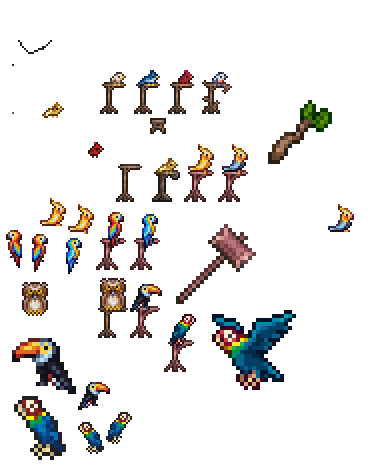
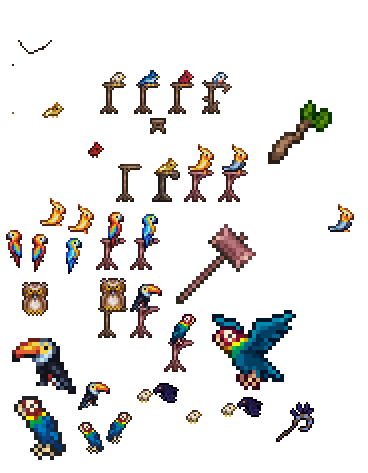
Made all perches side-anchoring; Added raven perch;

diff --git a/Content/Tiles/Furniture/AnimalHomes/RavenPerch.cs b/Content/Tiles/Furniture/AnimalHomes/RavenPerch.cs
@@ -8,7 +8,7 @@ using Terraria.ObjectData;
 
 namespace Funrniture.Content.Tiles.Furniture.AnimalHomes
 {
-    public class GrayCockatielPerch : ModTile
+    public class RavenPerch : ModTile
     {
         public override void SetStaticDefaults()
         {
@@ -16,10 +16,10 @@ namespace Funrniture.Content.Tiles.Furniture.AnimalHomes
             Main.tileNoAttach[Type] = true;
 
             TileObjectData.newTile.CopyFrom(TileObjectData.Style2xX);
-            TileObjectData.newTile.Height = 4;
+            TileObjectData.newTile.Height = 3;
             TileObjectData.newTile.Origin = new Point16(0, 2);
             TileObjectData.newTile.Direction = TileObjectDirection.PlaceLeft;
-            TileObjectData.newTile.CoordinateHeights = [16, 16, 16, 18];
+            TileObjectData.newTile.CoordinateHeights = [16, 16, 18];
             TileObjectData.newTile.CoordinateWidth = 16;
             TileObjectData.newTile.CoordinatePadding = 2;
             TileObjectData.newTile.StyleHorizontal = true;
@@ -30,19 +30,19 @@ namespace Funrniture.Content.Tiles.Furniture.AnimalHomes
             TileObjectData.addAlternate(1);
 
             TileObjectData.newAlternate.CopyFrom(TileObjectData.newTile);
-            TileObjectData.newAlternate.Height = 3;
+            TileObjectData.newAlternate.Height = 2;
             TileObjectData.newAlternate.Origin = new Point16(1, 1);
             TileObjectData.newAlternate.Direction = TileObjectDirection.None;
-            TileObjectData.newAlternate.CoordinateHeights = [16, 16, 16];
+            TileObjectData.newAlternate.CoordinateHeights = [16, 16];
             TileObjectData.newAlternate.AnchorRight = new AnchorData(AnchorType.SolidTile | AnchorType.SolidSide | AnchorType.Tree, 2, 0);
             TileObjectData.newAlternate.AnchorBottom = AnchorData.Empty;
             TileObjectData.addAlternate(2);
 
             TileObjectData.newAlternate.CopyFrom(TileObjectData.newTile);
-            TileObjectData.newAlternate.Height = 3;
+            TileObjectData.newAlternate.Height = 2;
             TileObjectData.newAlternate.Origin = new Point16(0, 1);
             TileObjectData.newAlternate.Direction = TileObjectDirection.None;
-            TileObjectData.newAlternate.CoordinateHeights = [16, 16, 16];
+            TileObjectData.newAlternate.CoordinateHeights = [16, 16];
             TileObjectData.newAlternate.AnchorLeft = new AnchorData(AnchorType.SolidTile | AnchorType.SolidSide | AnchorType.Tree, 2, 0);
             TileObjectData.newAlternate.AnchorBottom = AnchorData.Empty;
             TileObjectData.addAlternate(3);

diff --git a/Content/Tiles/Furniture/AnimalHomes/BlueMacawPerch.cs b/Content/Tiles/Furniture/AnimalHomes/BlueMacawPerch.cs
@@ -22,10 +22,31 @@ namespace Funrniture.Content.Tiles.Furniture.AnimalHomes
             TileObjectData.newTile.CoordinateHeights = [16, 16, 16, 18];
             TileObjectData.newTile.CoordinateWidth = 16;
             TileObjectData.newTile.CoordinatePadding = 2;
+            TileObjectData.newTile.StyleHorizontal = true;
+            TileObjectData.newTile.StyleMultiplier = 4;
 
             TileObjectData.newAlternate.CopyFrom(TileObjectData.newTile);
             TileObjectData.newAlternate.Direction = TileObjectDirection.PlaceRight;
             TileObjectData.addAlternate(1);
+
+            TileObjectData.newAlternate.CopyFrom(TileObjectData.newTile);
+            TileObjectData.newAlternate.Height = 3;
+            TileObjectData.newAlternate.Origin = new Point16(1, 1);
+            TileObjectData.newAlternate.Direction = TileObjectDirection.None;
+            TileObjectData.newAlternate.CoordinateHeights = [16, 16, 16];
+            TileObjectData.newAlternate.AnchorRight = new AnchorData(AnchorType.SolidTile | AnchorType.SolidSide | AnchorType.Tree, 3, 0);
+            TileObjectData.newAlternate.AnchorBottom = AnchorData.Empty;
+            TileObjectData.addAlternate(2);
+
+            TileObjectData.newAlternate.CopyFrom(TileObjectData.newTile);
+            TileObjectData.newAlternate.Height = 3;
+            TileObjectData.newAlternate.Origin = new Point16(0, 1);
+            TileObjectData.newAlternate.Direction = TileObjectDirection.None;
+            TileObjectData.newAlternate.CoordinateHeights = [16, 16, 16];
+            TileObjectData.newAlternate.AnchorLeft = new AnchorData(AnchorType.SolidTile | AnchorType.SolidSide | AnchorType.Tree, 3, 0);
+            TileObjectData.newAlternate.AnchorBottom = AnchorData.Empty;
+            TileObjectData.addAlternate(3);
+
             TileObjectData.addTile(Type);
 
             AddMapEntry(new Color(148, 107, 80));

diff --git a/Content/Tiles/Furniture/AnimalHomes/OwlPerch.cs b/Content/Tiles/Furniture/AnimalHomes/OwlPerch.cs
@@ -22,10 +22,31 @@ namespace Funrniture.Content.Tiles.Furniture.AnimalHomes
             TileObjectData.newTile.CoordinateHeights = [16, 16, 16, 18];
             TileObjectData.newTile.CoordinateWidth = 16;
             TileObjectData.newTile.CoordinatePadding = 2;
+            TileObjectData.newTile.StyleHorizontal = true;
+            TileObjectData.newTile.StyleMultiplier = 4;
 
             TileObjectData.newAlternate.CopyFrom(TileObjectData.newTile);
             TileObjectData.newAlternate.Direction = TileObjectDirection.PlaceRight;
             TileObjectData.addAlternate(1);
+
+            TileObjectData.newAlternate.CopyFrom(TileObjectData.newTile);
+            TileObjectData.newAlternate.Height = 3;
+            TileObjectData.newAlternate.Origin = new Point16(1, 1);
+            TileObjectData.newAlternate.Direction = TileObjectDirection.None;
+            TileObjectData.newAlternate.CoordinateHeights = [16, 16, 16];
+            TileObjectData.newAlternate.AnchorRight = new AnchorData(AnchorType.SolidTile | AnchorType.SolidSide | AnchorType.Tree, 2, 0);
+            TileObjectData.newAlternate.AnchorBottom = AnchorData.Empty;
+            TileObjectData.addAlternate(2);
+
+            TileObjectData.newAlternate.CopyFrom(TileObjectData.newTile);
+            TileObjectData.newAlternate.Height = 3;
+            TileObjectData.newAlternate.Origin = new Point16(0, 1);
+            TileObjectData.newAlternate.Direction = TileObjectDirection.None;
+            TileObjectData.newAlternate.CoordinateHeights = [16, 16, 16];
+            TileObjectData.newAlternate.AnchorLeft = new AnchorData(AnchorType.SolidTile | AnchorType.SolidSide | AnchorType.Tree, 2, 0);
+            TileObjectData.newAlternate.AnchorBottom = AnchorData.Empty;
+            TileObjectData.addAlternate(3);
+
             TileObjectData.addTile(Type);
 
             AddMapEntry(new Color(148, 107, 80));

diff --git a/Content/Tiles/Furniture/AnimalHomes/ParrotPerch.cs b/Content/Tiles/Furniture/AnimalHomes/ParrotPerch.cs
@@ -22,10 +22,31 @@ namespace Funrniture.Content.Tiles.Furniture.AnimalHomes
             TileObjectData.newTile.CoordinateHeights = [16, 16, 16, 18];
             TileObjectData.newTile.CoordinateWidth = 16;
             TileObjectData.newTile.CoordinatePadding = 2;
+            TileObjectData.newTile.StyleHorizontal = true;
+            TileObjectData.newTile.StyleMultiplier = 4;
 
             TileObjectData.newAlternate.CopyFrom(TileObjectData.newTile);
             TileObjectData.newAlternate.Direction = TileObjectDirection.PlaceRight;
             TileObjectData.addAlternate(1);
+
+            TileObjectData.newAlternate.CopyFrom(TileObjectData.newTile);
+            TileObjectData.newAlternate.Height = 3;
+            TileObjectData.newAlternate.Origin = new Point16(1, 1);
+            TileObjectData.newAlternate.Direction = TileObjectDirection.None;
+            TileObjectData.newAlternate.CoordinateHeights = [16, 16, 16];
+            TileObjectData.newAlternate.AnchorRight = new AnchorData(AnchorType.SolidTile | AnchorType.SolidSide | AnchorType.Tree, 2, 0);
+            TileObjectData.newAlternate.AnchorBottom = AnchorData.Empty;
+            TileObjectData.addAlternate(2);
+
+            TileObjectData.newAlternate.CopyFrom(TileObjectData.newTile);
+            TileObjectData.newAlternate.Height = 3;
+            TileObjectData.newAlternate.Origin = new Point16(0, 1);
+            TileObjectData.newAlternate.Direction = TileObjectDirection.None;
+            TileObjectData.newAlternate.CoordinateHeights = [16, 16, 16];
+            TileObjectData.newAlternate.AnchorLeft = new AnchorData(AnchorType.SolidTile | AnchorType.SolidSide | AnchorType.Tree, 2, 0);
+            TileObjectData.newAlternate.AnchorBottom = AnchorData.Empty;
+            TileObjectData.addAlternate(3);
+
             TileObjectData.addTile(Type);
 
             AddMapEntry(new Color(148, 107, 80));

diff --git a/Content/Tiles/Furniture/AnimalHomes/ScarletMacawPerch.cs b/Content/Tiles/Furniture/AnimalHomes/ScarletMacawPerch.cs
@@ -22,10 +22,31 @@ namespace Funrniture.Content.Tiles.Furniture.AnimalHomes
             TileObjectData.newTile.CoordinateHeights = [16, 16, 16, 18];
             TileObjectData.newTile.CoordinateWidth = 16;
             TileObjectData.newTile.CoordinatePadding = 2;
+            TileObjectData.newTile.StyleHorizontal = true;
+            TileObjectData.newTile.StyleMultiplier = 4;
 
             TileObjectData.newAlternate.CopyFrom(TileObjectData.newTile);
             TileObjectData.newAlternate.Direction = TileObjectDirection.PlaceRight;
             TileObjectData.addAlternate(1);
+
+            TileObjectData.newAlternate.CopyFrom(TileObjectData.newTile);
+            TileObjectData.newAlternate.Height = 3;
+            TileObjectData.newAlternate.Origin = new Point16(1, 1);
+            TileObjectData.newAlternate.Direction = TileObjectDirection.None;
+            TileObjectData.newAlternate.CoordinateHeights = [16, 16, 16];
+            TileObjectData.newAlternate.AnchorRight = new AnchorData(AnchorType.SolidTile | AnchorType.SolidSide | AnchorType.Tree, 2, 0);
+            TileObjectData.newAlternate.AnchorBottom = AnchorData.Empty;
+            TileObjectData.addAlternate(2);
+
+            TileObjectData.newAlternate.CopyFrom(TileObjectData.newTile);
+            TileObjectData.newAlternate.Height = 3;
+            TileObjectData.newAlternate.Origin = new Point16(0, 1);
+            TileObjectData.newAlternate.Direction = TileObjectDirection.None;
+            TileObjectData.newAlternate.CoordinateHeights = [16, 16, 16];
+            TileObjectData.newAlternate.AnchorLeft = new AnchorData(AnchorType.SolidTile | AnchorType.SolidSide | AnchorType.Tree, 2, 0);
+            TileObjectData.newAlternate.AnchorBottom = AnchorData.Empty;
+            TileObjectData.addAlternate(3);
+
             TileObjectData.addTile(Type);
 
             AddMapEntry(new Color(148, 107, 80));

diff --git a/Content/Tiles/Furniture/AnimalHomes/ToucanPerch.cs b/Content/Tiles/Furniture/AnimalHomes/ToucanPerch.cs
@@ -22,10 +22,31 @@ namespace Funrniture.Content.Tiles.Furniture.AnimalHomes
             TileObjectData.newTile.CoordinateHeights = [16, 16, 16, 18];
             TileObjectData.newTile.CoordinateWidth = 16;
             TileObjectData.newTile.CoordinatePadding = 2;
+            TileObjectData.newTile.StyleHorizontal = true;
+            TileObjectData.newTile.StyleMultiplier = 4;
 
             TileObjectData.newAlternate.CopyFrom(TileObjectData.newTile);
             TileObjectData.newAlternate.Direction = TileObjectDirection.PlaceRight;
             TileObjectData.addAlternate(1);
+
+            TileObjectData.newAlternate.CopyFrom(TileObjectData.newTile);
+            TileObjectData.newAlternate.Height = 3;
+            TileObjectData.newAlternate.Origin = new Point16(1, 1);
+            TileObjectData.newAlternate.Direction = TileObjectDirection.None;
+            TileObjectData.newAlternate.CoordinateHeights = [16, 16, 16];
+            TileObjectData.newAlternate.AnchorRight = new AnchorData(AnchorType.SolidTile | AnchorType.SolidSide | AnchorType.Tree, 2, 0);
+            TileObjectData.newAlternate.AnchorBottom = AnchorData.Empty;
+            TileObjectData.addAlternate(2);
+
+            TileObjectData.newAlternate.CopyFrom(TileObjectData.newTile);
+            TileObjectData.newAlternate.Height = 3;
+            TileObjectData.newAlternate.Origin = new Point16(0, 1);
+            TileObjectData.newAlternate.Direction = TileObjectDirection.None;
+            TileObjectData.newAlternate.CoordinateHeights = [16, 16, 16];
+            TileObjectData.newAlternate.AnchorLeft = new AnchorData(AnchorType.SolidTile | AnchorType.SolidSide | AnchorType.Tree, 2, 0);
+            TileObjectData.newAlternate.AnchorBottom = AnchorData.Empty;
+            TileObjectData.addAlternate(3);
+
             TileObjectData.addTile(Type);
 
             AddMapEntry(new Color(148, 107, 80));

diff --git a/Content/Tiles/Furniture/AnimalHomes/YellowCockatielPerch.cs b/Content/Tiles/Furniture/AnimalHomes/YellowCockatielPerch.cs
@@ -22,10 +22,31 @@ namespace Funrniture.Content.Tiles.Furniture.AnimalHomes
             TileObjectData.newTile.CoordinateHeights = [16, 16, 16, 18];
             TileObjectData.newTile.CoordinateWidth = 16;
             TileObjectData.newTile.CoordinatePadding = 2;
+            TileObjectData.newTile.StyleHorizontal = true;
+            TileObjectData.newTile.StyleMultiplier = 4;
 
             TileObjectData.newAlternate.CopyFrom(TileObjectData.newTile);
             TileObjectData.newAlternate.Direction = TileObjectDirection.PlaceRight;
             TileObjectData.addAlternate(1);
+
+            TileObjectData.newAlternate.CopyFrom(TileObjectData.newTile);
+            TileObjectData.newAlternate.Height = 3;
+            TileObjectData.newAlternate.Origin = new Point16(1, 1);
+            TileObjectData.newAlternate.Direction = TileObjectDirection.None;
+            TileObjectData.newAlternate.CoordinateHeights = [16, 16, 16];
+            TileObjectData.newAlternate.AnchorRight = new AnchorData(AnchorType.SolidTile | AnchorType.SolidSide | AnchorType.Tree, 2, 0);
+            TileObjectData.newAlternate.AnchorBottom = AnchorData.Empty;
+            TileObjectData.addAlternate(2);
+
+            TileObjectData.newAlternate.CopyFrom(TileObjectData.newTile);
+            TileObjectData.newAlternate.Height = 3;
+            TileObjectData.newAlternate.Origin = new Point16(0, 1);
+            TileObjectData.newAlternate.Direction = TileObjectDirection.None;
+            TileObjectData.newAlternate.CoordinateHeights = [16, 16, 16];
+            TileObjectData.newAlternate.AnchorLeft = new AnchorData(AnchorType.SolidTile | AnchorType.SolidSide | AnchorType.Tree, 2, 0);
+            TileObjectData.newAlternate.AnchorBottom = AnchorData.Empty;
+            TileObjectData.addAlternate(3);
+
             TileObjectData.addTile(Type);
 
             AddMapEntry(new Color(148, 107, 80));

diff --git a/Content/Tiles/Furniture/AnimalHomes/BlueJayPerch.cs b/Content/Tiles/Furniture/AnimalHomes/BlueJayPerch.cs
@@ -22,10 +22,31 @@ namespace Funrniture.Content.Tiles.Furniture.AnimalHomes
             TileObjectData.newTile.CoordinateHeights = [16, 16, 18];
             TileObjectData.newTile.CoordinateWidth = 16;
             TileObjectData.newTile.CoordinatePadding = 2;
+            TileObjectData.newTile.StyleHorizontal = true;
+            TileObjectData.newTile.StyleMultiplier = 4;
 
             TileObjectData.newAlternate.CopyFrom(TileObjectData.newTile);
             TileObjectData.newAlternate.Direction = TileObjectDirection.PlaceRight;
             TileObjectData.addAlternate(1);
+
+            TileObjectData.newAlternate.CopyFrom(TileObjectData.newTile);
+            TileObjectData.newAlternate.Height = 2;
+            TileObjectData.newAlternate.Origin = new Point16(1, 1);
+            TileObjectData.newAlternate.Direction = TileObjectDirection.None;
+            TileObjectData.newAlternate.CoordinateHeights = [16, 16];
+            TileObjectData.newAlternate.AnchorRight = new AnchorData(AnchorType.SolidTile | AnchorType.SolidSide | AnchorType.Tree, 2, 0);
+            TileObjectData.newAlternate.AnchorBottom = AnchorData.Empty;
+            TileObjectData.addAlternate(2);
+
+            TileObjectData.newAlternate.CopyFrom(TileObjectData.newTile);
+            TileObjectData.newAlternate.Height = 2;
+            TileObjectData.newAlternate.Origin = new Point16(0, 1);
+            TileObjectData.newAlternate.Direction = TileObjectDirection.None;
+            TileObjectData.newAlternate.CoordinateHeights = [16, 16];
+            TileObjectData.newAlternate.AnchorLeft = new AnchorData(AnchorType.SolidTile | AnchorType.SolidSide | AnchorType.Tree, 2, 0);
+            TileObjectData.newAlternate.AnchorBottom = AnchorData.Empty;
+            TileObjectData.addAlternate(3);
+
             TileObjectData.addTile(Type);
 
             AddMapEntry(new Color(148, 107, 80));

diff --git a/Content/Tiles/Furniture/AnimalHomes/CardinalPerch.cs b/Content/Tiles/Furniture/AnimalHomes/CardinalPerch.cs
@@ -22,10 +22,31 @@ namespace Funrniture.Content.Tiles.Furniture.AnimalHomes
             TileObjectData.newTile.CoordinateHeights = [16, 16, 18];
             TileObjectData.newTile.CoordinateWidth = 16;
             TileObjectData.newTile.CoordinatePadding = 2;
+            TileObjectData.newTile.StyleHorizontal = true;
+            TileObjectData.newTile.StyleMultiplier = 4;
 
             TileObjectData.newAlternate.CopyFrom(TileObjectData.newTile);
             TileObjectData.newAlternate.Direction = TileObjectDirection.PlaceRight;
             TileObjectData.addAlternate(1);
+
+            TileObjectData.newAlternate.CopyFrom(TileObjectData.newTile);
+            TileObjectData.newAlternate.Height = 2;
+            TileObjectData.newAlternate.Origin = new Point16(1, 1);
+            TileObjectData.newAlternate.Direction = TileObjectDirection.None;
+            TileObjectData.newAlternate.CoordinateHeights = [16, 16];
+            TileObjectData.newAlternate.AnchorRight = new AnchorData(AnchorType.SolidTile | AnchorType.SolidSide | AnchorType.Tree, 2, 0);
+            TileObjectData.newAlternate.AnchorBottom = AnchorData.Empty;
+            TileObjectData.addAlternate(2);
+
+            TileObjectData.newAlternate.CopyFrom(TileObjectData.newTile);
+            TileObjectData.newAlternate.Height = 2;
+            TileObjectData.newAlternate.Origin = new Point16(0, 1);
+            TileObjectData.newAlternate.Direction = TileObjectDirection.None;
+            TileObjectData.newAlternate.CoordinateHeights = [16, 16];
+            TileObjectData.newAlternate.AnchorLeft = new AnchorData(AnchorType.SolidTile | AnchorType.SolidSide | AnchorType.Tree, 2, 0);
+            TileObjectData.newAlternate.AnchorBottom = AnchorData.Empty;
+            TileObjectData.addAlternate(3);
+
             TileObjectData.addTile(Type);
 
             AddMapEntry(new Color(148, 107, 80));

diff --git a/Content/Tiles/Furniture/AnimalHomes/FinchPerch.cs b/Content/Tiles/Furniture/AnimalHomes/FinchPerch.cs
@@ -22,10 +22,31 @@ namespace Funrniture.Content.Tiles.Furniture.AnimalHomes
             TileObjectData.newTile.CoordinateHeights = [16, 16, 18];
             TileObjectData.newTile.CoordinateWidth = 16;
             TileObjectData.newTile.CoordinatePadding = 2;
+            TileObjectData.newTile.StyleHorizontal = true;
+            TileObjectData.newTile.StyleMultiplier = 4;
 
             TileObjectData.newAlternate.CopyFrom(TileObjectData.newTile);
             TileObjectData.newAlternate.Direction = TileObjectDirection.PlaceRight;
             TileObjectData.addAlternate(1);
+
+            TileObjectData.newAlternate.CopyFrom(TileObjectData.newTile);
+            TileObjectData.newAlternate.Height = 2;
+            TileObjectData.newAlternate.Origin = new Point16(1, 1);
+            TileObjectData.newAlternate.Direction = TileObjectDirection.None;
+            TileObjectData.newAlternate.CoordinateHeights = [16, 16];
+            TileObjectData.newAlternate.AnchorRight = new AnchorData(AnchorType.SolidTile | AnchorType.SolidSide | AnchorType.Tree, 2, 0);
+            TileObjectData.newAlternate.AnchorBottom = AnchorData.Empty;
+            TileObjectData.addAlternate(2);
+
+            TileObjectData.newAlternate.CopyFrom(TileObjectData.newTile);
+            TileObjectData.newAlternate.Height = 2;
+            TileObjectData.newAlternate.Origin = new Point16(0, 1);
+            TileObjectData.newAlternate.Direction = TileObjectDirection.None;
+            TileObjectData.newAlternate.CoordinateHeights = [16, 16];
+            TileObjectData.newAlternate.AnchorLeft = new AnchorData(AnchorType.SolidTile | AnchorType.SolidSide | AnchorType.Tree, 2, 0);
+            TileObjectData.newAlternate.AnchorBottom = AnchorData.Empty;
+            TileObjectData.addAlternate(3);
+
             TileObjectData.addTile(Type);
 
             AddMapEntry(new Color(148, 107, 80));

diff --git a/Content/Tiles/Furniture/AnimalHomes/GoldBirdPerch.cs b/Content/Tiles/Furniture/AnimalHomes/GoldBirdPerch.cs
@@ -22,10 +22,31 @@ namespace Funrniture.Content.Tiles.Furniture.AnimalHomes
             TileObjectData.newTile.CoordinateHeights = [16, 16, 18];
             TileObjectData.newTile.CoordinateWidth = 16;
             TileObjectData.newTile.CoordinatePadding = 2;
+            TileObjectData.newTile.StyleHorizontal = true;
+            TileObjectData.newTile.StyleMultiplier = 4;
 
             TileObjectData.newAlternate.CopyFrom(TileObjectData.newTile);
             TileObjectData.newAlternate.Direction = TileObjectDirection.PlaceRight;
             TileObjectData.addAlternate(1);
+
+            TileObjectData.newAlternate.CopyFrom(TileObjectData.newTile);
+            TileObjectData.newAlternate.Height = 2;
+            TileObjectData.newAlternate.Origin = new Point16(1, 1);
+            TileObjectData.newAlternate.Direction = TileObjectDirection.None;
+            TileObjectData.newAlternate.CoordinateHeights = [16, 16];
+            TileObjectData.newAlternate.AnchorRight = new AnchorData(AnchorType.SolidTile | AnchorType.SolidSide | AnchorType.Tree, 2, 0);
+            TileObjectData.newAlternate.AnchorBottom = AnchorData.Empty;
+            TileObjectData.addAlternate(2);
+
+            TileObjectData.newAlternate.CopyFrom(TileObjectData.newTile);
+            TileObjectData.newAlternate.Height = 2;
+            TileObjectData.newAlternate.Origin = new Point16(0, 1);
+            TileObjectData.newAlternate.Direction = TileObjectDirection.None;
+            TileObjectData.newAlternate.CoordinateHeights = [16, 16];
+            TileObjectData.newAlternate.AnchorLeft = new AnchorData(AnchorType.SolidTile | AnchorType.SolidSide | AnchorType.Tree, 2, 0);
+            TileObjectData.newAlternate.AnchorBottom = AnchorData.Empty;
+            TileObjectData.addAlternate(3);
+
             TileObjectData.addTile(Type);
 
             AddMapEntry(new Color(148, 107, 80));

diff --git a/Content/Items/Placeable/Furniture/AnimalHomes/RavenPerchItem.cs b/Content/Items/Placeable/Furniture/AnimalHomes/RavenPerchItem.cs
@@ -1,0 +1,24 @@
+using Terraria;
+using Terraria.ID;
+using Terraria.ModLoader;
+
+namespace Funrniture.Content.Items.Placeable.Furniture.AnimalHomes
+{
+	public class RavenPerchItem : ModItem
+	{
+		public override void SetDefaults() {
+			Item.DefaultToPlaceableTile(ModContent.TileType<Tiles.Furniture.AnimalHomes.RavenPerch>());
+			Item.width = 26;
+			Item.height = 24;
+			Item.value = 100000;
+		}
+
+		public override void AddRecipes() {
+			CreateRecipe()
+                .AddIngredient(ItemID.RavenStaff)
+                .AddRecipeGroup(RecipeGroupID.Wood, 15)
+				.AddTile(TileID.Sawmill)
+				.Register();
+		}
+	}
+}
